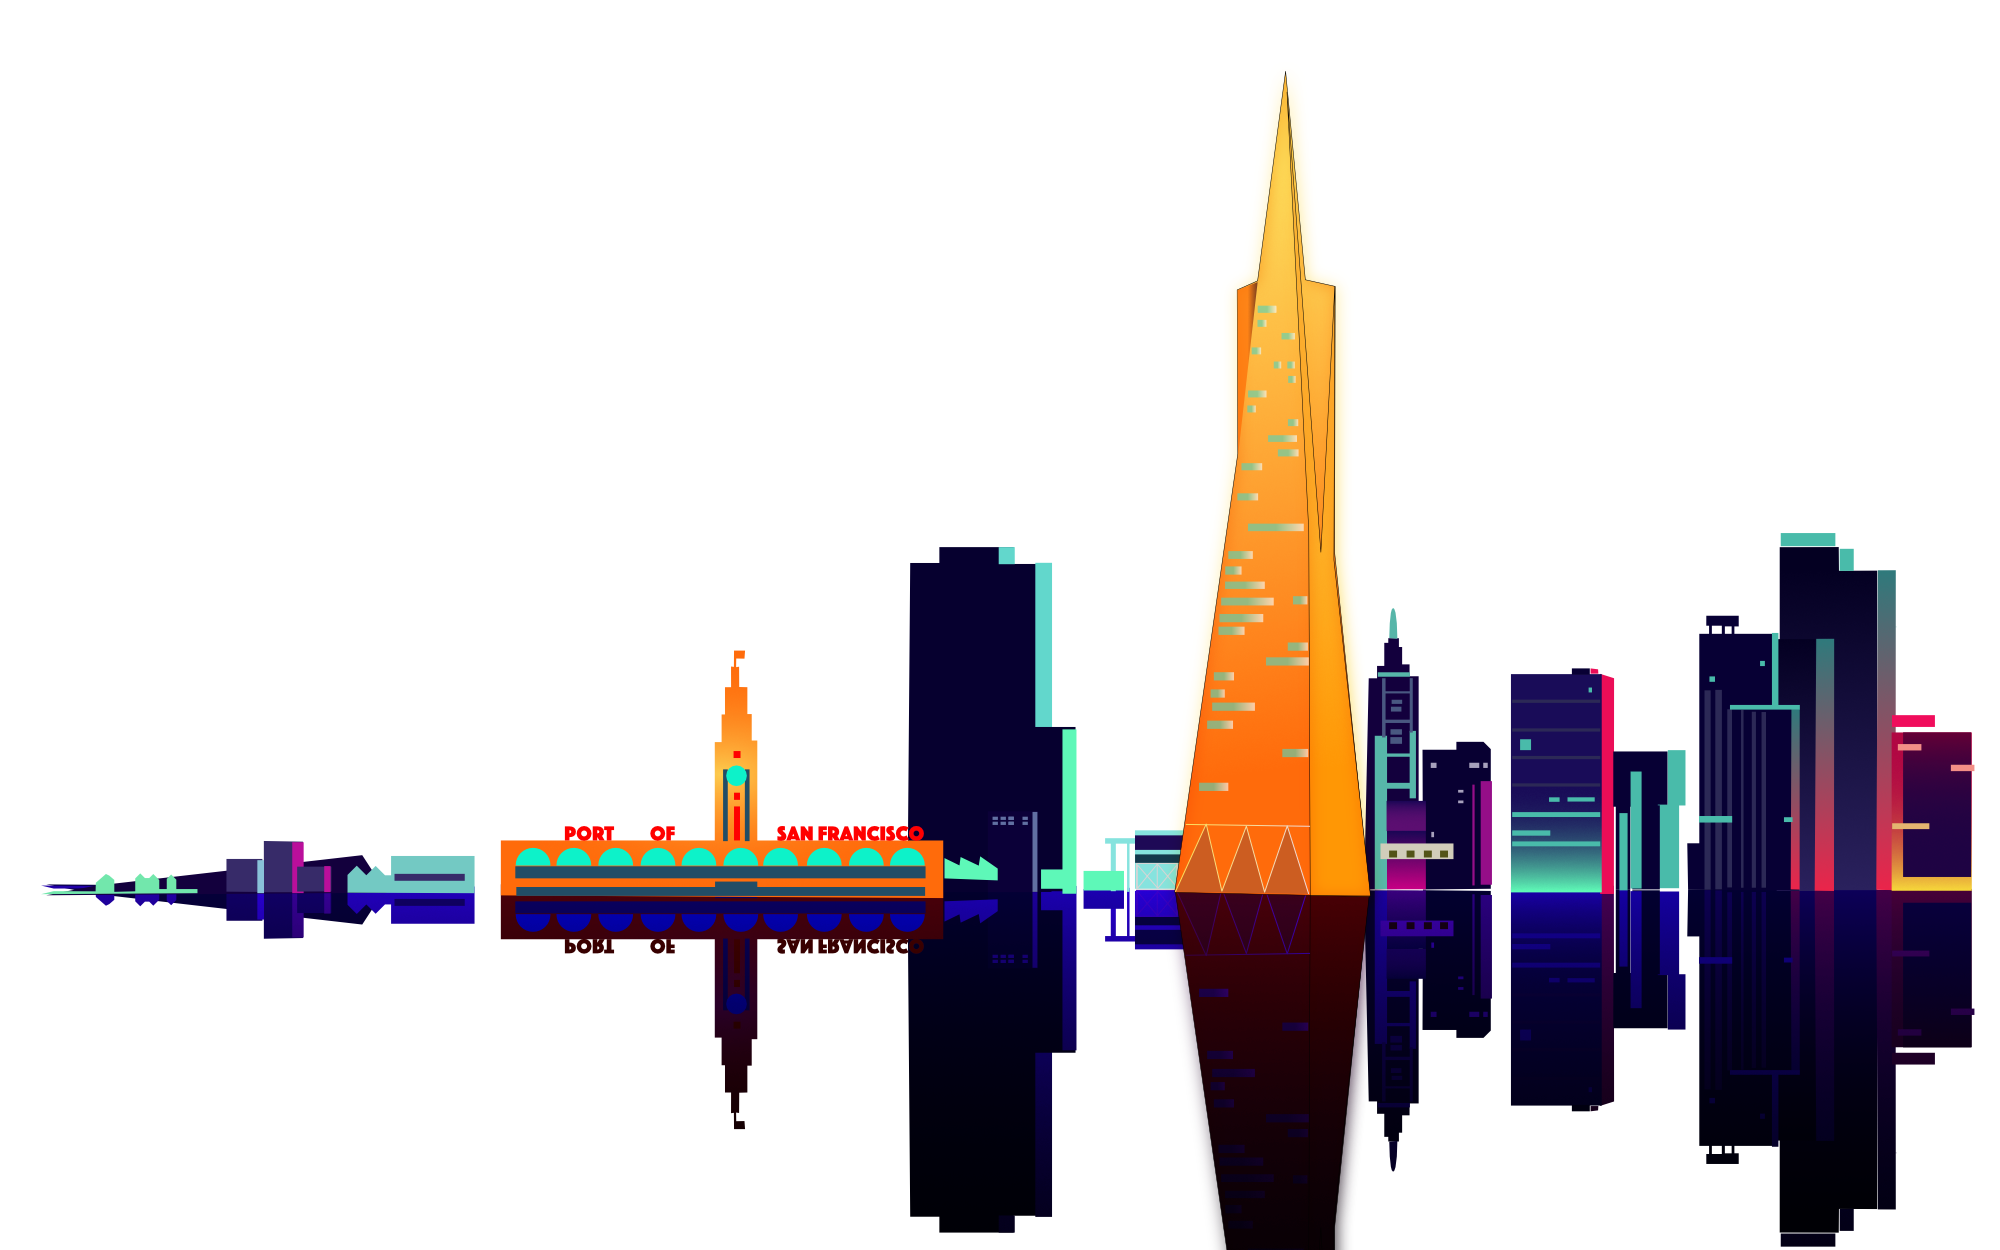
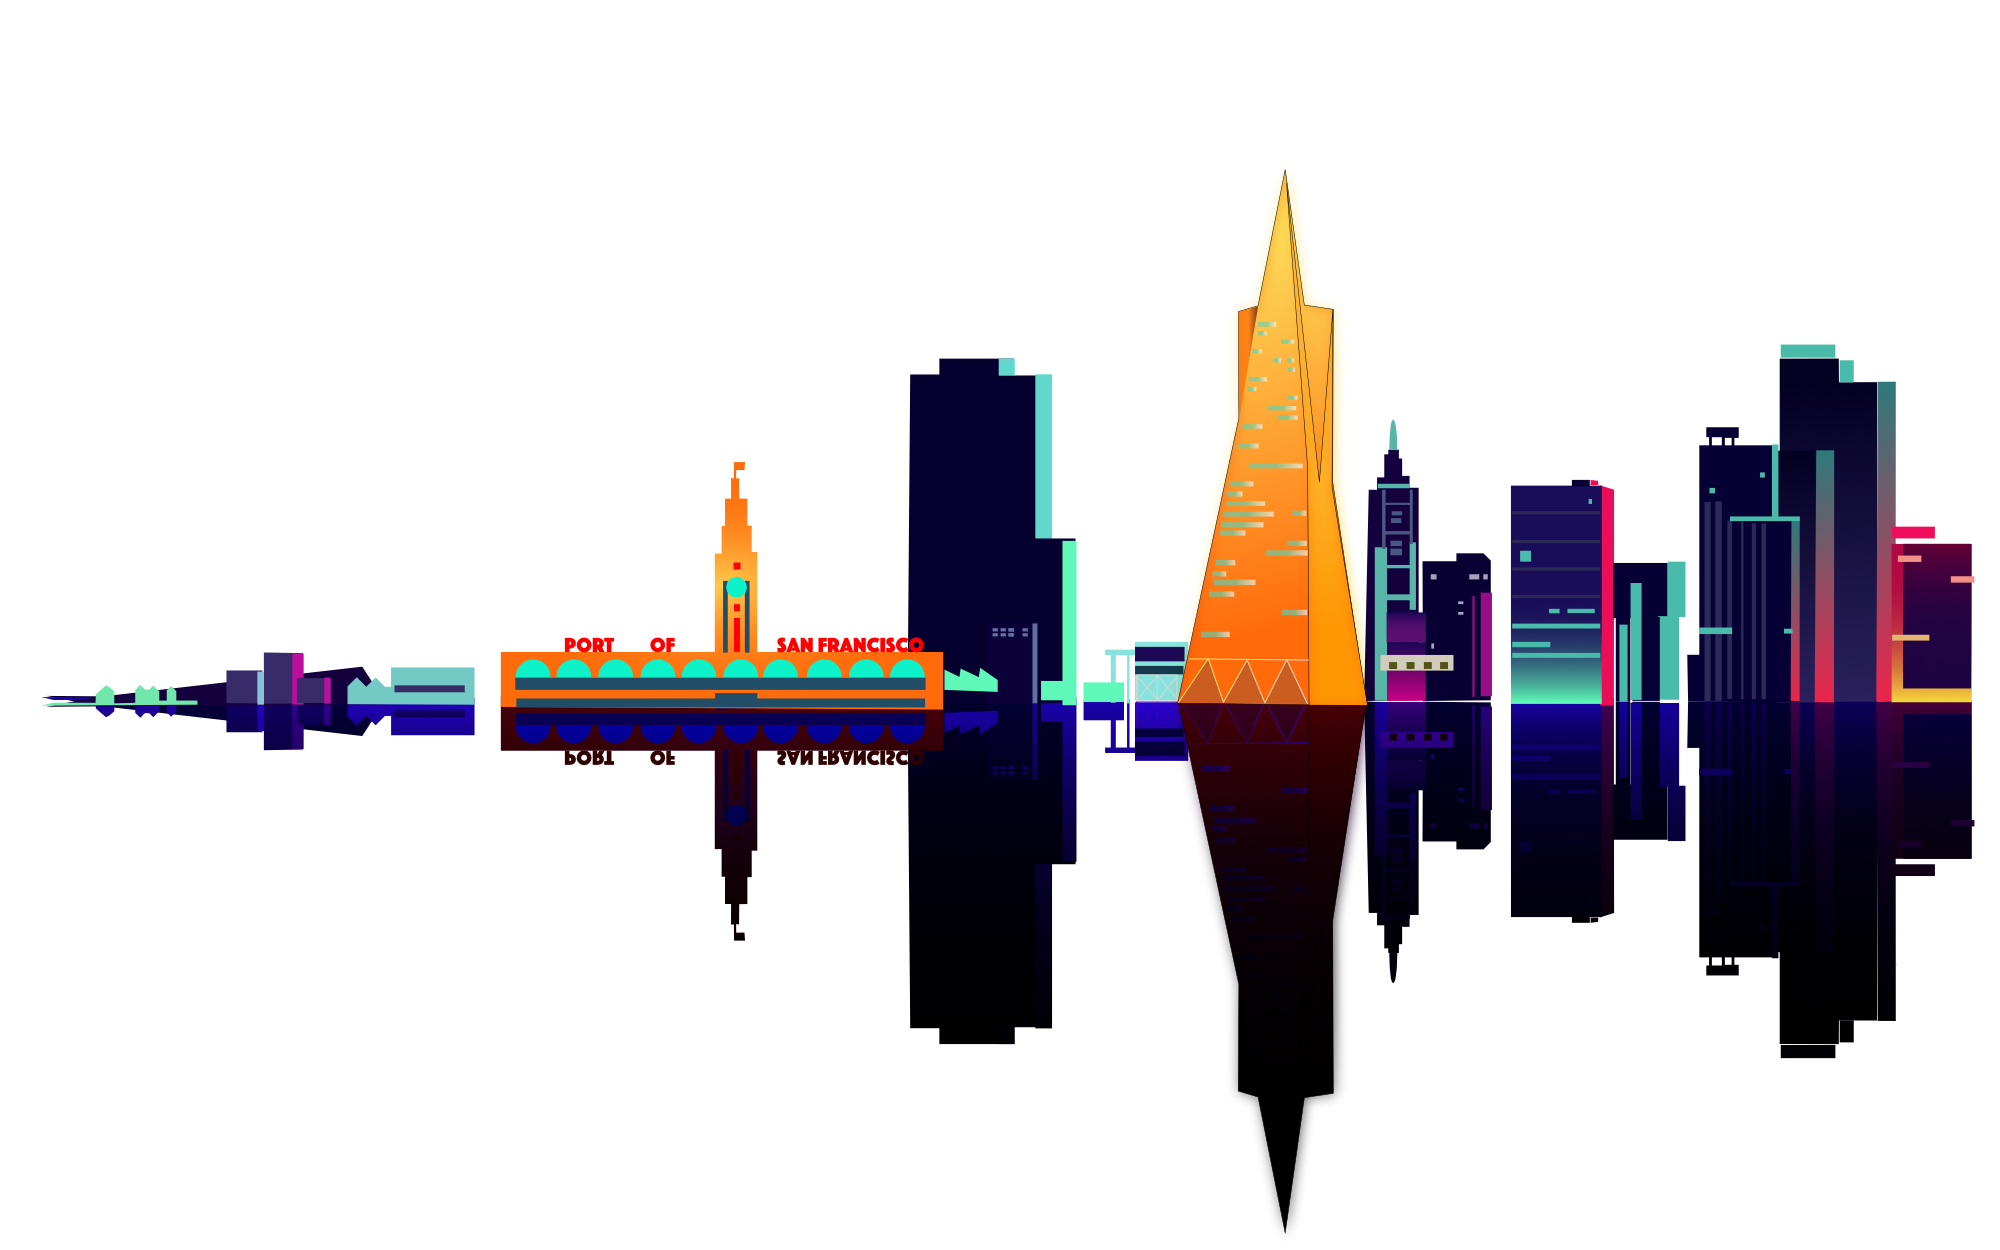
boat and background

Changed region(s): [[0.031, 0.0624, 0.992, 1.0]]

diff --git a/css/layers.css b/css/layers.css
@@ -10,12 +10,17 @@
     -moz-animation-timing-function: ease;
     margin-left: 30px;
     margin-top: 5px;
-
 }
 
 @-webkit-keyframes Floatingx{
     from {-webkit-transform:translate(0, 0px);}
     65% {-webkit-transform:translate(0, 35px);}
+    to {-webkit-transform: translate(0, -0px);    }
+}
+
+@-webkit-keyframes boatx{
+    from {-webkit-transform:translate(0, 0px);}
+    65% {-webkit-transform:translate(0, 15px);}
     to {-webkit-transform: translate(0, -0px);    }
 }
 
@@ -98,6 +103,23 @@
   background-image: url(../imgs/bay.png);
   background-repeat: repeat;
   background-position: top;
+}
+
+#boat {
+  -webkit-animation-name: boatx;
+  -webkit-animation-duration: 4s;
+  -webkit-animation-iteration-count: infinite;
+  -webkit-animation-timing-function: ease;
+  -moz-animation-name: Floating;
+  -moz-animation-duration: 4s;
+  -moz-animation-iteration-count: infinite;
+  -moz-animation-timing-function: ease;
+  position: absolute;
+  bottom: 22%;
+  left: 1200px;
+  width: 240px;
+  height: 240px;
+  background-image: url(../imgs/boat.png);
 }
 
 #cloud-1 {

diff --git a/index.html b/index.html
@@ -35,6 +35,7 @@
           </div>
           <div class="layer-horizontal" id="layer-horizontal-1-2">
             <div class="background" id="front"></div>
+            <div class="floating" id="boat"></div>
           </div>
           <div class="layer-horizontal" id="layer-horizontal-2">
             <div class="floating" id="title"></div>
